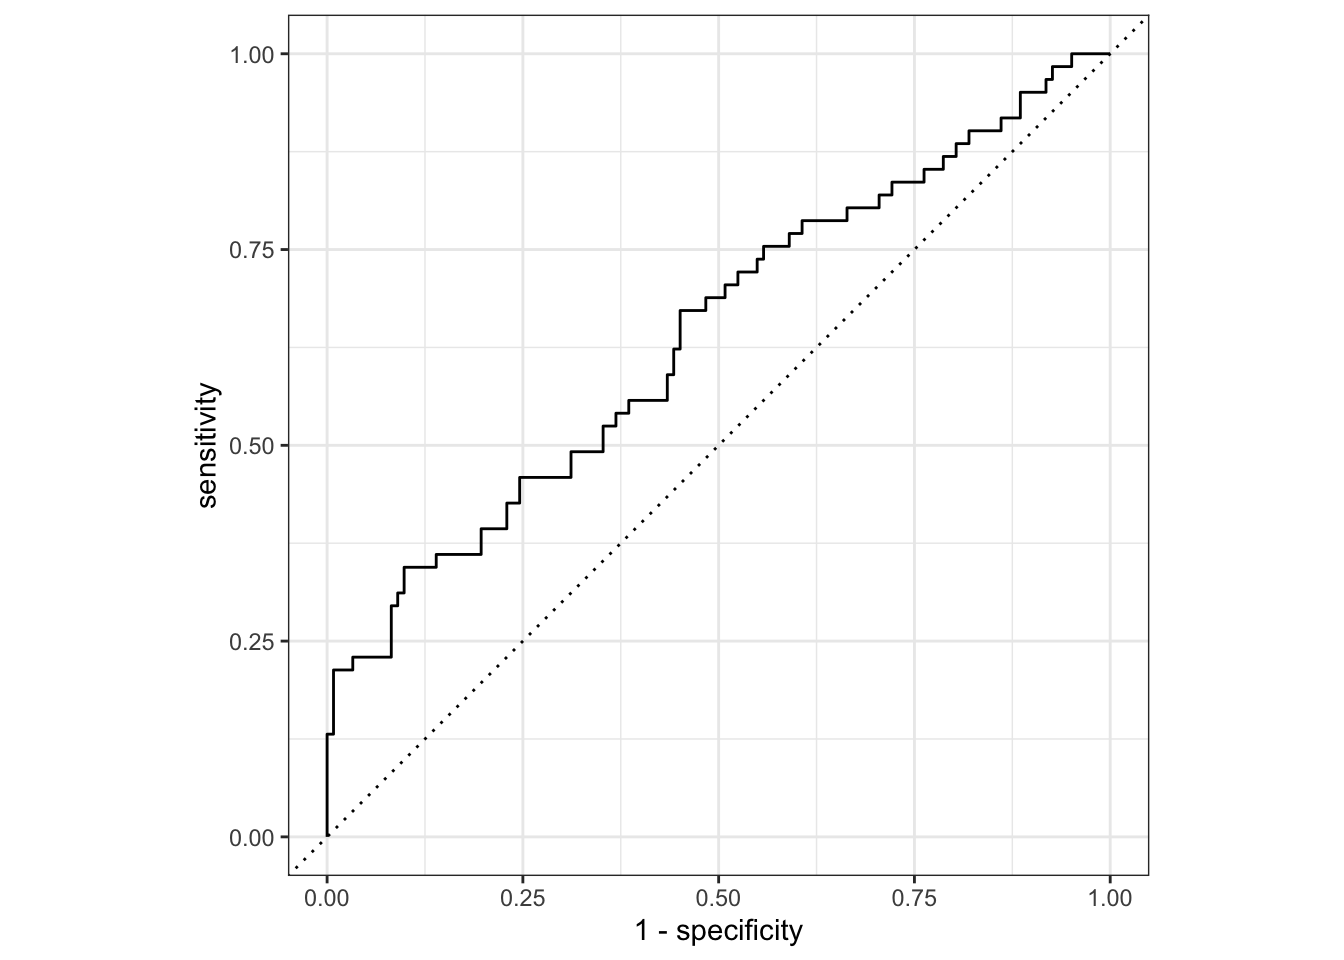
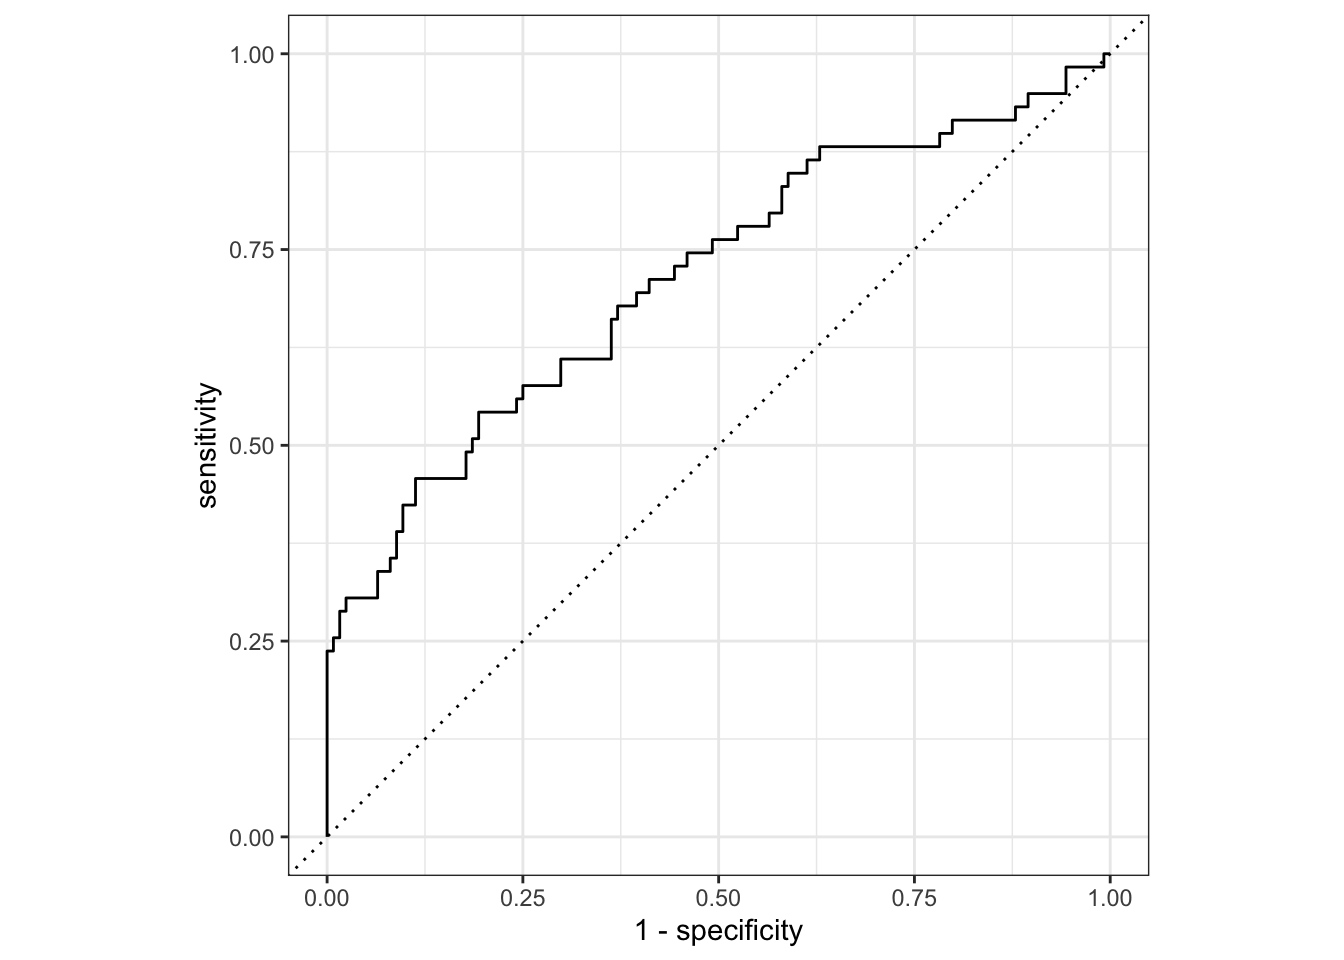
updated yml

diff --git a/docs/fluanalysis/code/fitting.html b/docs/fluanalysis/code/fitting.html
@@ -175,15 +175,15 @@ code span.wa { color: #60a0b0; font-weight: bold; font-style: italic; } /* Warni
     </a>
     <ul class="dropdown-menu" aria-labelledby="nav-menu-flu-analysis">    
         <li>
-    <a class="dropdown-item" href="../../fluanalysis/code/wrangling.html">
+    <a class="dropdown-item" href="../.././fluanalysis/code/wrangling.html">
  <span class="dropdown-text">Data Wrangling</span></a>
   </li>  
         <li>
-    <a class="dropdown-item" href="../../fluanalysis/code/exploration.html">
+    <a class="dropdown-item" href="../.././fluanalysis/code/exploration.html">
  <span class="dropdown-text">Data Exploration</span></a>
   </li>  
         <li>
-    <a class="dropdown-item" href="../../fluanalysis/code/fitting.html">
+    <a class="dropdown-item" href="../.././fluanalysis/code/fitting.html">
  <span class="dropdown-text">Model Fitting</span></a>
   </li>  
     </ul>
@@ -251,7 +251,7 @@ code span.wa { color: #60a0b0; font-weight: bold; font-style: italic; } /* Warni
 ✖ dplyr::filter()  masks stats::filter()
 ✖ dplyr::lag()     masks stats::lag()
 ✖ recipes::step()  masks stats::step()
-• Use tidymodels_prefer() to resolve common conflicts.</code></pre>
+• Search for functions across packages at https://www.tidymodels.org/find/</code></pre>
 </div>
 <div class="sourceCode cell-code" id="cb5"><pre class="sourceCode r code-with-copy"><code class="sourceCode r"><span id="cb5-1"><a href="#cb5-1" aria-hidden="true" tabindex="-1"></a><span class="fu">library</span>(tidyverse)</span></code><button title="Copy to Clipboard" class="code-copy-button"><i class="bi"></i></button></pre></div>
 <div class="cell-output cell-output-stderr">
@@ -347,16 +347,16 @@ code span.wa { color: #60a0b0; font-weight: bold; font-style: italic; } /* Warni
 <pre><code># A tibble: 38 × 5
    term                 estimate std.error statistic p.value
    &lt;chr&gt;                   &lt;dbl&gt;     &lt;dbl&gt;     &lt;dbl&gt;   &lt;dbl&gt;
- 1 (Intercept)           98.0        0.369   266.    0      
- 2 SwollenLymphNodesYes  -0.202      0.108    -1.86  0.0635 
- 3 ChestCongestionYes     0.0792     0.115     0.690 0.491  
- 4 ChillsSweatsYes        0.284      0.155     1.84  0.0662 
- 5 NasalCongestionYes    -0.255      0.134    -1.91  0.0566 
- 6 CoughYNYes             0.175      0.289     0.607 0.544  
- 7 SneezeYes             -0.325      0.119    -2.74  0.00629
- 8 FatigueYes             0.312      0.183     1.70  0.0895 
- 9 SubjectiveFeverYes     0.333      0.125     2.67  0.00785
-10 HeadacheYes            0.0482     0.147     0.327 0.744  
+ 1 (Intercept)           97.7        0.363   269.    0      
+ 2 SwollenLymphNodesYes  -0.172      0.107    -1.60  0.110  
+ 3 ChestCongestionYes     0.130      0.112     1.17  0.244  
+ 4 ChillsSweatsYes        0.255      0.148     1.72  0.0862 
+ 5 NasalCongestionYes    -0.242      0.130    -1.87  0.0622 
+ 6 CoughYNYes             0.271      0.276     0.982 0.327  
+ 7 SneezeYes             -0.335      0.115    -2.93  0.00356
+ 8 FatigueYes             0.264      0.181     1.46  0.145  
+ 9 SubjectiveFeverYes     0.339      0.119     2.85  0.00451
+10 HeadacheYes            0.0866     0.142     0.608 0.543  
 # … with 28 more rows</code></pre>
 </div>
 </div>
@@ -387,16 +387,16 @@ code span.wa { color: #60a0b0; font-weight: bold; font-style: italic; } /* Warni
 <pre><code># A tibble: 183 × 2
    BodyTemp .pred
       &lt;dbl&gt; &lt;dbl&gt;
- 1    100.   99.4
+ 1    100.   99.3
  2     98.5  98.6
- 3     99.2  98.8
- 4     99.3  99.3
- 5    101.   99.0
- 6     98.7  98.2
- 7     98.8  99.7
- 8     98.7  98.8
- 9     98    98.5
-10    101.   99.2
+ 3     97.8  98.7
+ 4     98.1  98.4
+ 5    100.   99.1
+ 6     98.7  98.3
+ 7     98.8  99.2
+ 8    101.   99.0
+ 9     98.3  98.4
+10     99.3  98.9
 # … with 173 more rows</code></pre>
 </div>
 </div>
@@ -410,7 +410,7 @@ code span.wa { color: #60a0b0; font-weight: bold; font-style: italic; } /* Warni
 <pre><code># A tibble: 1 × 3
   .metric .estimator .estimate
   &lt;chr&gt;   &lt;chr&gt;          &lt;dbl&gt;
-1 rmse    standard        1.12</code></pre>
+1 rmse    standard        1.18</code></pre>
 </div>
 </div>
 <p>I think this means that this model is estimating body temp incorrectly by this amount (in either direction)</p>
@@ -442,10 +442,10 @@ code span.wa { color: #60a0b0; font-weight: bold; font-style: italic; } /* Warni
 <span id="cb28-3"><a href="#cb28-3" aria-hidden="true" tabindex="-1"></a><span class="fu">tidy</span>(bodytemp_fit2)</span></code><button title="Copy to Clipboard" class="code-copy-button"><i class="bi"></i></button></pre></div>
 <div class="cell-output cell-output-stdout">
 <pre><code># A tibble: 2 × 5
-  term         estimate std.error statistic  p.value
-  &lt;chr&gt;           &lt;dbl&gt;     &lt;dbl&gt;     &lt;dbl&gt;    &lt;dbl&gt;
-1 (Intercept)    99.3      0.0988   1005.   0       
-2 RunnyNoseYes   -0.425    0.116      -3.67 0.000263</code></pre>
+  term         estimate std.error statistic p.value
+  &lt;chr&gt;           &lt;dbl&gt;     &lt;dbl&gt;     &lt;dbl&gt;   &lt;dbl&gt;
+1 (Intercept)    99.1      0.0919   1078.    0     
+2 RunnyNoseYes   -0.235    0.110      -2.13  0.0333</code></pre>
 </div>
 </div>
 <p>Now we have trained the model using the training data set.</p>
@@ -473,16 +473,16 @@ code span.wa { color: #60a0b0; font-weight: bold; font-style: italic; } /* Warni
 <pre><code># A tibble: 183 × 2
    BodyTemp .pred
       &lt;dbl&gt; &lt;dbl&gt;
- 1    100.   99.3
+ 1    100.   99.1
  2     98.5  98.8
- 3     99.2  98.8
- 4     99.3  99.3
- 5    101.   99.3
+ 3     97.8  98.8
+ 4     98.1  98.8
+ 5    100.   98.8
  6     98.7  98.8
- 7     98.8  99.3
- 8     98.7  98.8
- 9     98    98.8
-10    101.   98.8
+ 7     98.8  99.1
+ 8    101.   98.8
+ 9     98.3  99.1
+10     99.3  98.8
 # … with 173 more rows</code></pre>
 </div>
 </div>
@@ -496,7 +496,7 @@ code span.wa { color: #60a0b0; font-weight: bold; font-style: italic; } /* Warni
 <pre><code># A tibble: 1 × 3
   .metric .estimator .estimate
   &lt;chr&gt;   &lt;chr&gt;          &lt;dbl&gt;
-1 rmse    standard        1.16</code></pre>
+1 rmse    standard        1.22</code></pre>
 </div>
 </div>
 <p>This is a similar output to what we saw in the first model, where estimation of body temp is slightly off by about 1 degree.</p>
@@ -539,16 +539,16 @@ code span.wa { color: #60a0b0; font-weight: bold; font-style: italic; } /* Warni
 <pre><code># A tibble: 38 × 5
    term                 estimate std.error statistic p.value
    &lt;chr&gt;                   &lt;dbl&gt;     &lt;dbl&gt;     &lt;dbl&gt;   &lt;dbl&gt;
- 1 (Intercept)            1.48       9.16     0.161  0.872  
- 2 SwollenLymphNodesYes  -0.692      0.237   -2.92   0.00352
- 3 ChestCongestionYes     0.342      0.256    1.34   0.181  
- 4 ChillsSweatsYes        0.0154     0.348    0.0443 0.965  
- 5 NasalCongestionYes     0.513      0.305    1.68   0.0926 
- 6 CoughYNYes            -0.0462     0.638   -0.0724 0.942  
- 7 SneezeYes              0.243      0.254    0.959  0.338  
- 8 FatigueYes             0.180      0.423    0.426  0.670  
- 9 SubjectiveFeverYes     0.500      0.276    1.81   0.0705 
-10 HeadacheYes            0.419      0.334    1.25   0.210  
+ 1 (Intercept)            -8.33      9.26     -0.899  0.369 
+ 2 SwollenLymphNodesYes   -0.337     0.231    -1.46   0.143 
+ 3 ChestCongestionYes      0.222     0.243     0.916  0.360 
+ 4 ChillsSweatsYes         0.285     0.338     0.841  0.400 
+ 5 NasalCongestionYes      0.648     0.290     2.23   0.0255
+ 6 CoughYNYes             -0.388     0.603    -0.644  0.520 
+ 7 SneezeYes               0.126     0.247     0.509  0.611 
+ 8 FatigueYes              0.308     0.424     0.727  0.467 
+ 9 SubjectiveFeverYes      0.253     0.263     0.961  0.337 
+10 HeadacheYes             0.314     0.320     0.978  0.328 
 # … with 28 more rows</code></pre>
 </div>
 </div>
@@ -575,7 +575,7 @@ prediction from a rank-deficient fit may be misleading</code></pre>
  7 No         
  8 No         
  9 No         
-10 Yes        
+10 No         
 # … with 173 more rows</code></pre>
 </div>
 </div>
@@ -612,7 +612,7 @@ dplyr 1.1.0.
 <pre><code># A tibble: 1 × 3
   .metric .estimator .estimate
   &lt;chr&gt;   &lt;chr&gt;          &lt;dbl&gt;
-1 roc_auc binary         0.641</code></pre>
+1 roc_auc binary         0.714</code></pre>
 </div>
 </div>
 <p>I think what this shows is that the model is a pretty decent predictor of nausea, however, it is more sensitive than it is specific, meaning that it is good at indicating true positives but not as good at indicating true negatives.</p>
@@ -645,10 +645,10 @@ dplyr 1.1.0.
 <span id="cb51-5"><a href="#cb51-5" aria-hidden="true" tabindex="-1"></a>  <span class="fu">tidy</span>()</span></code><button title="Copy to Clipboard" class="code-copy-button"><i class="bi"></i></button></pre></div>
 <div class="cell-output cell-output-stdout">
 <pre><code># A tibble: 2 × 5
-  term         estimate std.error statistic  p.value
-  &lt;chr&gt;           &lt;dbl&gt;     &lt;dbl&gt;     &lt;dbl&gt;    &lt;dbl&gt;
-1 (Intercept)   -0.643      0.173    -3.72  0.000202
-2 RunnyNoseYes   0.0606     0.202     0.300 0.764   </code></pre>
+  term         estimate std.error statistic   p.value
+  &lt;chr&gt;           &lt;dbl&gt;     &lt;dbl&gt;     &lt;dbl&gt;     &lt;dbl&gt;
+1 (Intercept)    -0.693     0.165    -4.20  0.0000270
+2 RunnyNoseYes    0.157     0.196     0.801 0.423    </code></pre>
 </div>
 </div>
 </section>
@@ -691,7 +691,7 @@ dplyr 1.1.0.
 <pre><code># A tibble: 1 × 3
   .metric .estimator .estimate
   &lt;chr&gt;   &lt;chr&gt;          &lt;dbl&gt;
-1 roc_auc binary           0.5</code></pre>
+1 roc_auc binary         0.473</code></pre>
 </div>
 </div>
 

diff --git a/docs/fluanalysis/code/exploration.html b/docs/fluanalysis/code/exploration.html
@@ -176,15 +176,15 @@ code span.wa { color: #60a0b0; font-weight: bold; font-style: italic; } /* Warni
     </a>
     <ul class="dropdown-menu" aria-labelledby="nav-menu-flu-analysis">    
         <li>
-    <a class="dropdown-item" href="../../fluanalysis/code/wrangling.html">
+    <a class="dropdown-item" href="../.././fluanalysis/code/wrangling.html">
  <span class="dropdown-text">Data Wrangling</span></a>
   </li>  
         <li>
-    <a class="dropdown-item" href="../../fluanalysis/code/exploration.html">
+    <a class="dropdown-item" href="../.././fluanalysis/code/exploration.html">
  <span class="dropdown-text">Data Exploration</span></a>
   </li>  
         <li>
-    <a class="dropdown-item" href="../../fluanalysis/code/fitting.html">
+    <a class="dropdown-item" href="../.././fluanalysis/code/fitting.html">
  <span class="dropdown-text">Model Fitting</span></a>
   </li>  
     </ul>

diff --git a/docs/fluanalysis/code/wrangling.html b/docs/fluanalysis/code/wrangling.html
@@ -176,15 +176,15 @@ code span.wa { color: #60a0b0; font-weight: bold; font-style: italic; } /* Warni
     </a>
     <ul class="dropdown-menu" aria-labelledby="nav-menu-flu-analysis">    
         <li>
-    <a class="dropdown-item" href="../../fluanalysis/code/wrangling.html">
+    <a class="dropdown-item" href="../.././fluanalysis/code/wrangling.html">
  <span class="dropdown-text">Data Wrangling</span></a>
   </li>  
         <li>
-    <a class="dropdown-item" href="../../fluanalysis/code/exploration.html">
+    <a class="dropdown-item" href="../.././fluanalysis/code/exploration.html">
  <span class="dropdown-text">Data Exploration</span></a>
   </li>  
         <li>
-    <a class="dropdown-item" href="../../fluanalysis/code/fitting.html">
+    <a class="dropdown-item" href="../.././fluanalysis/code/fitting.html">
  <span class="dropdown-text">Model Fitting</span></a>
   </li>  
     </ul>

diff --git a/docs/aboutme.html b/docs/aboutme.html
@@ -112,15 +112,15 @@ ul.task-list li input[type="checkbox"] {
     </a>
     <ul class="dropdown-menu" aria-labelledby="nav-menu-flu-analysis">    
         <li>
-    <a class="dropdown-item" href="./fluanalysis/code/wrangling.html">
+    <a class="dropdown-item" href="././fluanalysis/code/wrangling.html">
  <span class="dropdown-text">Data Wrangling</span></a>
   </li>  
         <li>
-    <a class="dropdown-item" href="./fluanalysis/code/exploration.html">
+    <a class="dropdown-item" href="././fluanalysis/code/exploration.html">
  <span class="dropdown-text">Data Exploration</span></a>
   </li>  
         <li>
-    <a class="dropdown-item" href="./fluanalysis/code/fitting.html">
+    <a class="dropdown-item" href="././fluanalysis/code/fitting.html">
  <span class="dropdown-text">Model Fitting</span></a>
   </li>  
     </ul>
